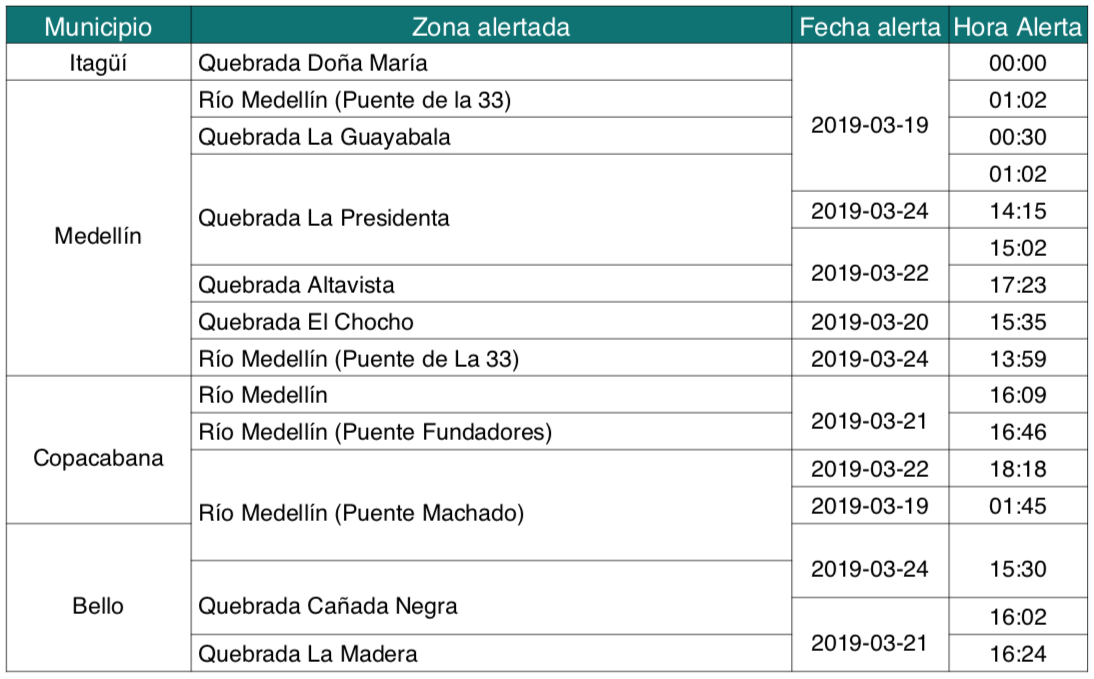
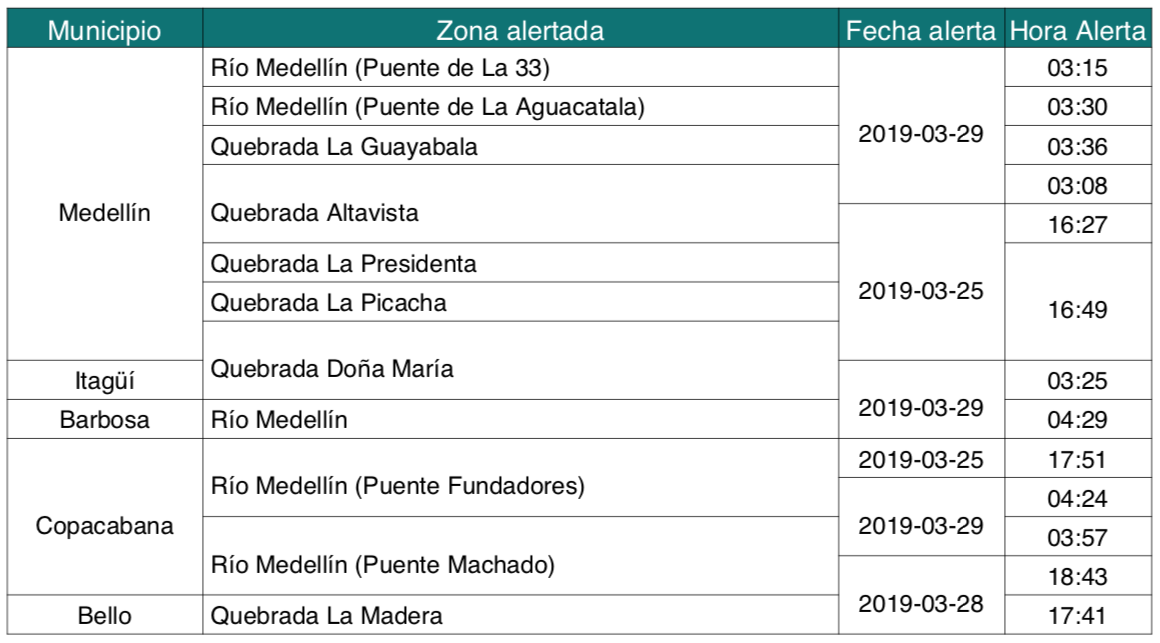
Week March 25th to 31th

diff --git a/Informe/TablaInforme.py b/Informe/TablaInforme.py
@@ -91,25 +91,43 @@ JuanMarica.setFont("Avenir", 24)
 #         [u'Medellín',     u'Quebrada El Chocho'                                 ,'2019-03-12'  , '16:45'     ],
 #         [u'Medellín',     u'Quebrada La Guayabala'                              ,'2019-03-12'  , '16:49'     ],
 #        ]
-# week  March 18th to 24th
+# # week  March 18th to 24th
+# data = [['Municipio',     'Zona alertada'                                       ,'Fecha alerta','Hora Alerta'],
+#         [u'Itagüí',       u'Quebrada Doña María'                                ,'2019-03-19'  , '00:00'     ],
+#         [u'Medellín',     u'Río Medellín (Puente de la 33)'                     ,'2019-03-19'  , '01:02'     ],
+#         [u'Medellín',     u'Quebrada La Guayabala'                              ,'2019-03-19'  , '00:30'     ],
+#         [u'Medellín',     u'Quebrada La Presidenta'                             ,'2019-03-19'  , '01:02'     ],
+#         [u'Medellín',     u'Quebrada La Presidenta'                             ,'2019-03-24'  , '14:15'     ],
+#         [u'Medellín',     u'Quebrada La Presidenta'                             ,'2019-03-22'  , '15:02'     ],
+#         [u'Medellín',     u'Quebrada Altavista'                                 ,'2019-03-22'  , '17:23'     ],
+#         [u'Medellín',     u'Quebrada El Chocho'                                 ,'2019-03-20'  , '15:35'     ],
+#         [u'Medellín',     u'Río Medellín (Puente de La 33)'                     ,'2019-03-24'  , '13:59'     ],
+#         [u'Copacabana',   u'Río Medellín '                                      ,'2019-03-21'  , '16:09'     ],
+#         [u'Copacabana',   u'Río Medellín (Puente Fundadores)'                   ,'2019-03-21'  , '16:46'     ],
+#         [u'Copacabana',   u'Río Medellín (Puente Machado)'                      ,'2019-03-22'  , '18:18'     ],
+#         [u'Copacabana',   u'Río Medellín (Puente Machado)'                      ,'2019-03-19'  , '01:45'     ],
+#         [u'Bello',        u'Río Medellín (Puente Machado)'                      ,'2019-03-24'  , '15:30'     ],
+#         [u'Bello',        u'Quebrada Cañada Negra'                              ,'2019-03-24'  , '15:30'     ],
+#         [u'Bello',        u'Quebrada Cañada Negra'                              ,'2019-03-21'  , '16:02'     ],
+#         [u'Bello',        u'Quebrada La Madera'                                 ,'2019-03-21'  , '16:24'     ],
+#        ]
+# week  March 25th to 31th
 data = [['Municipio',     'Zona alertada'                                       ,'Fecha alerta','Hora Alerta'],
-        [u'Itagüí',       u'Quebrada Doña María'                                ,'2019-03-19'  , '00:00'     ],
-        [u'Medellín',     u'Río Medellín (Puente de la 33)'                     ,'2019-03-19'  , '01:02'     ],
-        [u'Medellín',     u'Quebrada La Guayabala'                              ,'2019-03-19'  , '00:30'     ],
-        [u'Medellín',     u'Quebrada La Presidenta'                             ,'2019-03-19'  , '01:02'     ],
-        [u'Medellín',     u'Quebrada La Presidenta'                             ,'2019-03-24'  , '14:15'     ],
-        [u'Medellín',     u'Quebrada La Presidenta'                             ,'2019-03-22'  , '15:02'     ],
-        [u'Medellín',     u'Quebrada Altavista'                                 ,'2019-03-22'  , '17:23'     ],
-        [u'Medellín',     u'Quebrada El Chocho'                                 ,'2019-03-20'  , '15:35'     ],
-        [u'Medellín',     u'Río Medellín (Puente de La 33)'                     ,'2019-03-24'  , '13:59'     ],
-        [u'Copacabana',   u'Río Medellín '                                      ,'2019-03-21'  , '16:09'     ],
-        [u'Copacabana',   u'Río Medellín (Puente Fundadores)'                   ,'2019-03-21'  , '16:46'     ],
-        [u'Copacabana',   u'Río Medellín (Puente Machado)'                      ,'2019-03-22'  , '18:18'     ],
-        [u'Copacabana',   u'Río Medellín (Puente Machado)'                      ,'2019-03-19'  , '01:45'     ],
-        [u'Bello',        u'Río Medellín (Puente Machado)'                      ,'2019-03-24'  , '15:30'     ],
-        [u'Bello',        u'Quebrada Cañada Negra'                              ,'2019-03-24'  , '15:30'     ],
-        [u'Bello',        u'Quebrada Cañada Negra'                              ,'2019-03-21'  , '16:02'     ],
-        [u'Bello',        u'Quebrada La Madera'                                 ,'2019-03-21'  , '16:24'     ],
+        [u'Medellín',     u'Río Medellín (Puente de La 33)'                     ,'2019-03-29'  , '03:15'     ],
+        [u'Medellín',     u'Río Medellín (Puente de La Aguacatala)'             ,'2019-03-29'  , '03:30'     ],
+        [u'Medellín',     u'Quebrada La Guayabala'                              ,'2019-03-29'  , '03:36'     ],
+        [u'Medellín',     u'Quebrada Altavista'                                 ,'2019-03-29'  , '03:08'     ],
+        [u'Medellín',     u'Quebrada Altavista'                                 ,'2019-03-25'  , '16:27'     ],
+        [u'Medellín',     u'Quebrada La Presidenta'                             ,'2019-03-25'  , '16:49'     ],
+        [u'Medellín',     u'Quebrada La Picacha'                                ,'2019-03-25'  , '16:49'     ],
+        [u'Medellín',     u'Quebrada Doña María'                                ,'2019-03-25'  , '16:49'     ],
+        [u'Itagüí',       u'Quebrada Doña María'                                ,'2019-03-29'  , '03:25'     ],
+        [u'Barbosa',      u'Río Medellín'                                       ,'2019-03-29'  , '04:29'     ],
+        [u'Copacabana',   u'Río Medellín (Puente Fundadores)'                   ,'2019-03-25'  , '17:51'     ],
+        [u'Copacabana',   u'Río Medellín (Puente Fundadores)'                   ,'2019-03-29'  , '04:24'     ],
+        [u'Copacabana',   u'Río Medellín (Puente Machado)'                      ,'2019-03-29'  , '03:57'     ],
+        [u'Copacabana',   u'Río Medellín (Puente Machado)'                      ,'2019-03-28'  , '18:43'     ],
+        [u'Bello',        u'Quebrada La Madera'                                 ,'2019-03-28'  , '17:41'     ],
        ]
 
 
@@ -130,33 +148,33 @@ t.setStyle(TableStyle([('INNERGRID', (0,0), (-1,-1), 0.25, colors.black),\
                        ('FONTSIZE', (0, 1), (-1, -1), 18),\
                        ('TEXTCOLOR',(0, 0),(-1,0),colors.white),\
                        # # # Municipio
-                       ('SPAN',   (0,2), (0,9)),\
-                       ('VALIGN', (0,2), (0,9),'MIDDLE'),\
-                       ('SPAN',   (0,10), (0,13)),\
-                       ('VALIGN', (0,10), (0,13),'MIDDLE'),\
-                       ('SPAN',   (0,14), (0,17)),\
-                       ('VALIGN', (0,14), (0,17),'MIDDLE'),\
+                       ('SPAN',   (0,1), (0,8)),\
+                       ('VALIGN', (0,1), (0,8),'MIDDLE'),\
+                       ('SPAN',   (0,11), (0,14)),\
+                       ('VALIGN', (0,11), (0,14),'MIDDLE'),\
                        # # # zona
-                       ('SPAN',   (1,4), (1,6)),\
-                       ('VALIGN', (1,4), (1,6),'MIDDLE'),\
-                       ('SPAN',   (1,12), (1,14)),\
-                       ('VALIGN', (1,12), (1,14),'MIDDLE'),\
-                       ('SPAN',   (1,15), (1,16)),\
-                       ('VALIGN', (1,15), (1,16),'MIDDLE'),\
+                       ('SPAN',   (1,4), (1,5)),\
+                       ('VALIGN', (1,4), (1,5),'MIDDLE'),\
+                       ('SPAN',   (1,8), (1,9)),\
+                       ('VALIGN', (1,8), (1,9),'MIDDLE'),\
+                       ('SPAN',   (1,11), (1,12)),\
+                       ('VALIGN', (1,11), (1,12),'MIDDLE'),\
+                       ('SPAN',   (1,13), (1,14)),\
+                       ('VALIGN', (1,13), (1,14),'MIDDLE'),\
                        # # # # # fecha
                        ('SPAN',   (2,1), (2,4)),\
                        ('VALIGN', (2,1), (2,4),'MIDDLE'),\
-                       ('SPAN',   (2,6), (2,7)),\
-                       ('VALIGN', (2,6), (2,7),'MIDDLE'),\
-                       ('SPAN',   (2,10), (2,11)),\
-                       ('VALIGN', (2,10), (2,11),'MIDDLE'),\
+                       ('SPAN',   (2,5), (2,8)),\
+                       ('VALIGN', (2,5), (2,8),'MIDDLE'),\
+                       ('SPAN',   (2,9), (2,10)),\
+                       ('VALIGN', (2,9), (2,10),'MIDDLE'),\
+                       ('SPAN',   (2,12), (2,13)),\
+                       ('VALIGN', (2,12), (2,13),'MIDDLE'),\
                        ('SPAN',   (2,14), (2,15)),\
                        ('VALIGN', (2,14), (2,15),'MIDDLE'),\
-                       ('SPAN',   (2,16), (2,17)),\
-                       ('VALIGN', (2,16), (2,17),'MIDDLE'),\
                        # # # hora
-                       ('SPAN',   (3,14), (3,15)),\
-                       ('VALIGN', (3,14), (3,15),'MIDDLE'),\
+                       ('SPAN',   (3,6), (3,8)),\
+                       ('VALIGN', (3,6), (3,8),'MIDDLE'),\
                         ]))
 
 
